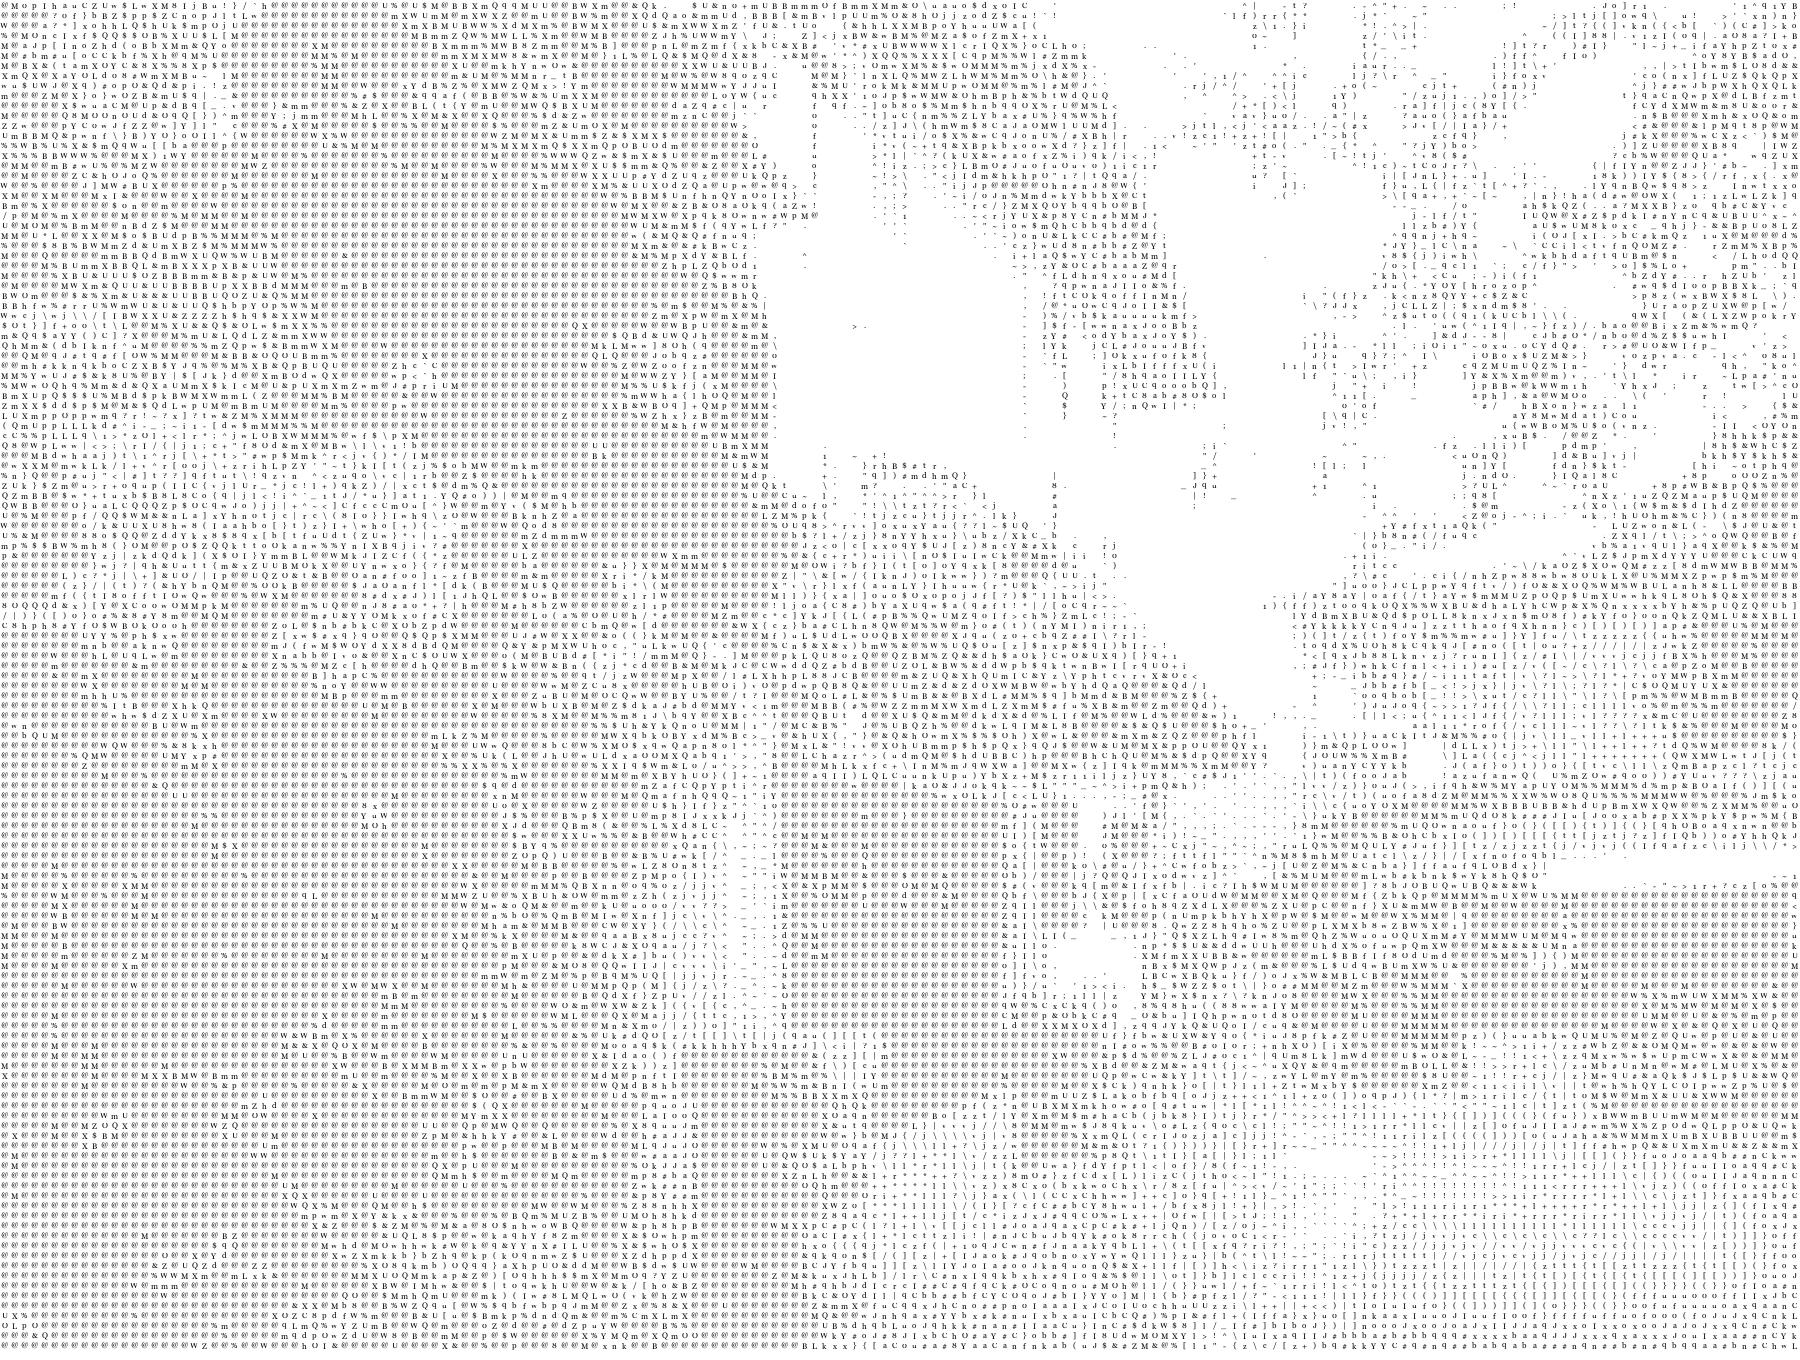
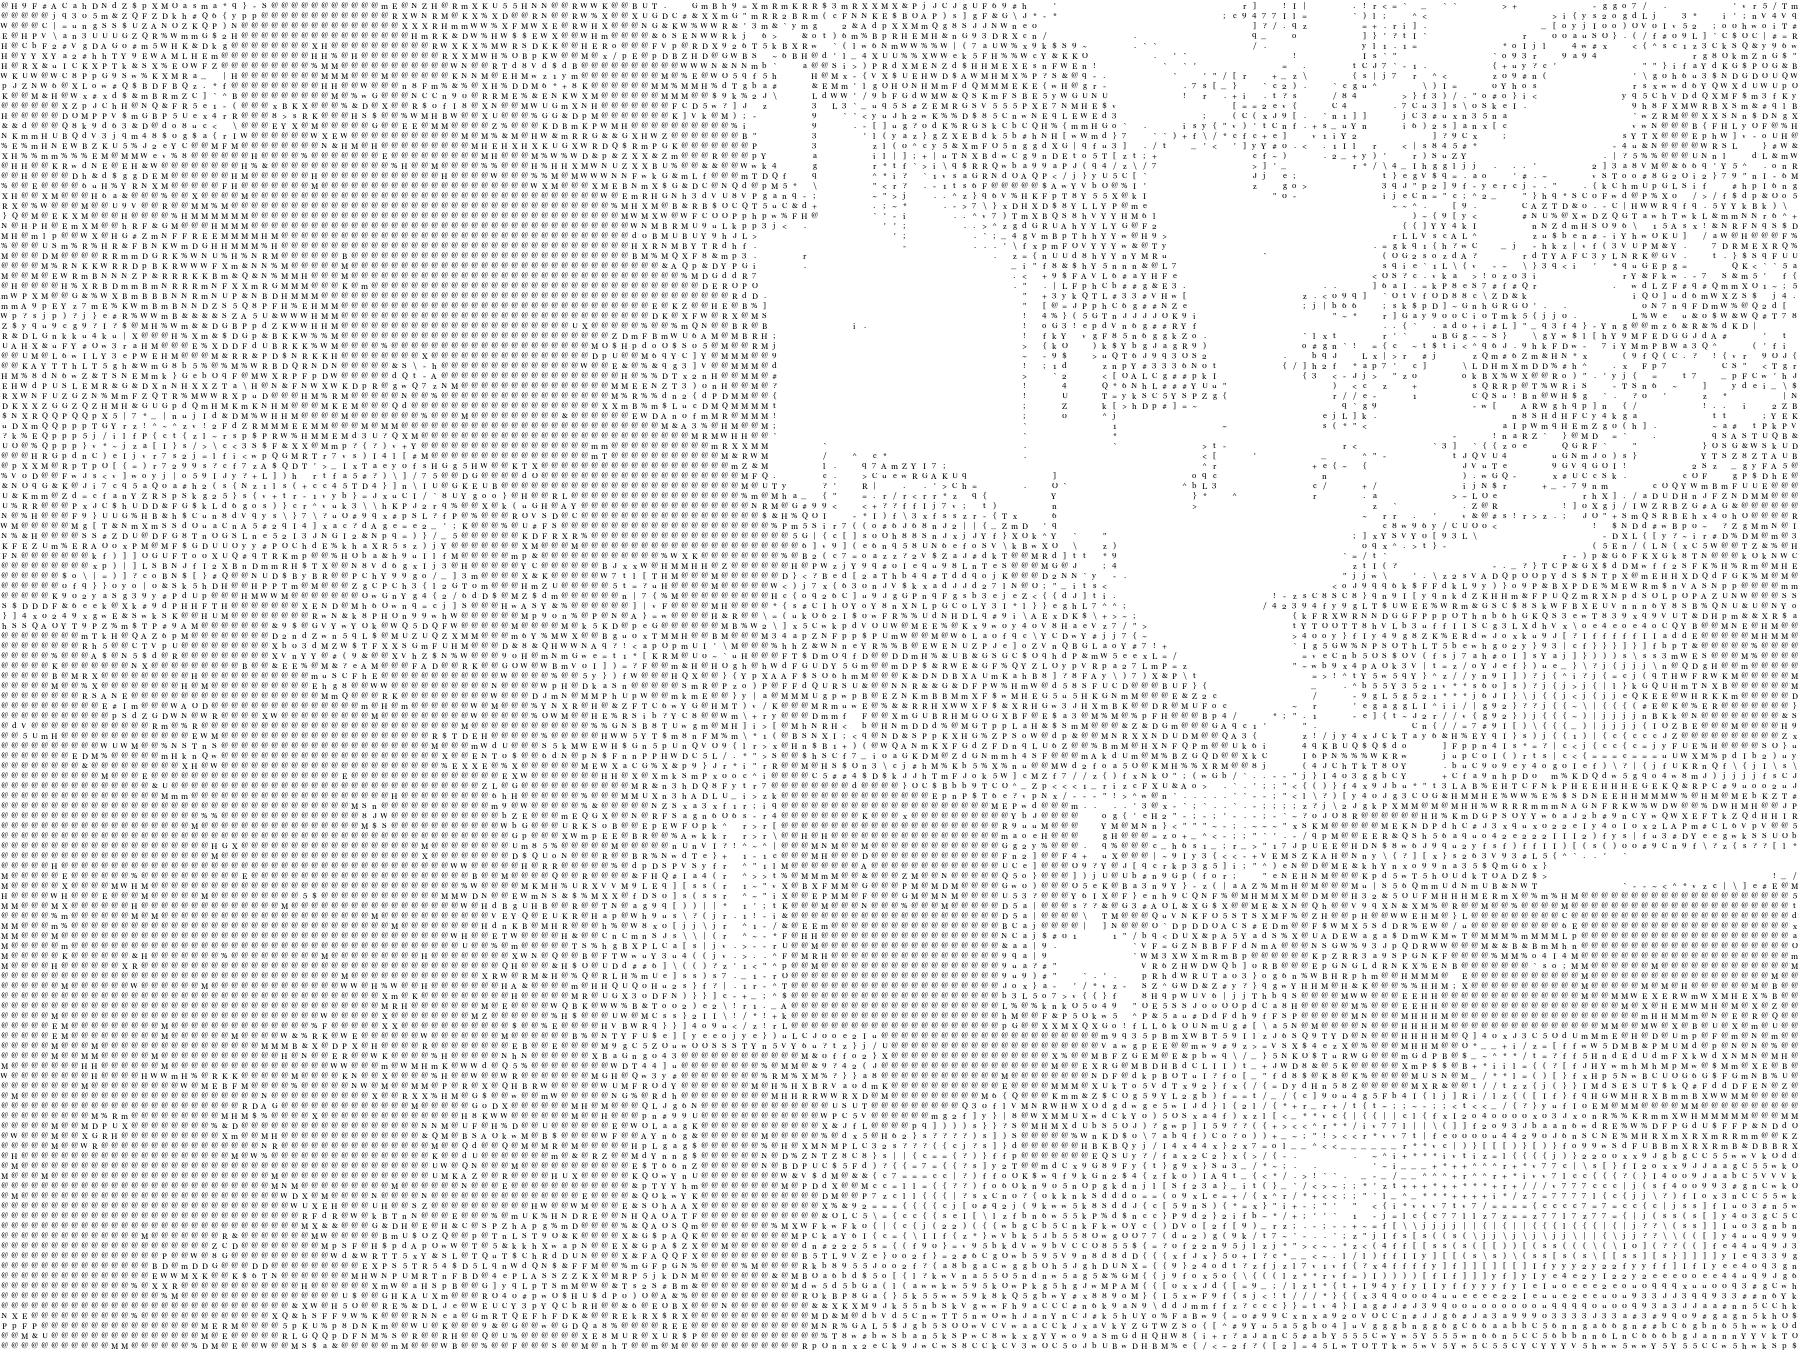
20190404-Update the transform function and examples

diff --git a/ascii_image/img_process/ImageTransform.py b/ascii_image/img_process/ImageTransform.py
@@ -12,7 +12,7 @@ class ImageTransform(object):
     """
     图像处理类
     """
-    ascii_char = list("@M%WXmBU&ZQ$dpOLwh8kYCn#bqaxJoIuf0}(])[{tz|/jvc\?l+*ri<1>!^~_\";-,`:'. ")
+    ascii_char = list("@M%WXmBU&ZQ$dpOLwh8kYCn#bqaxJoIuf0}(])[{tz|/jvc\\?l+*ri<1>!^~_\";-,`:'. ")
 
     def __init__(self, img_path: str, char_list=None):
         logging.basicConfig(level=logging.INFO,
@@ -49,8 +49,8 @@ class ImageTransform(object):
         if alpha == 0:
             return ' '
         length = len(self.ascii_char)
-        gray = int(0.2126 * r + 0.7152 * g + 0.0722 * b)
-        unit = (256.0 + 1) / length
+        gray = round(0.2126 * r + 0.7152 * g + 0.0722 * b)
+        unit = 255 / (length - 1)
         return self.ascii_char[int(gray / unit)]
 
     def img_to_ascii(self, width: int, height: int, delimiter='\n'):
@@ -277,8 +277,8 @@ class ImageTransform(object):
         Image转换为numpy数组
         :return: numpy数组
         """
-        # im = self.__resize(width, height)
-        array = np.array(self.im)
+        image = self.enhance_contrast(self.im, constants.ImgConstants.CONTRAST_VALUE)
+        array = np.array(image)
         return array
 
     @staticmethod
